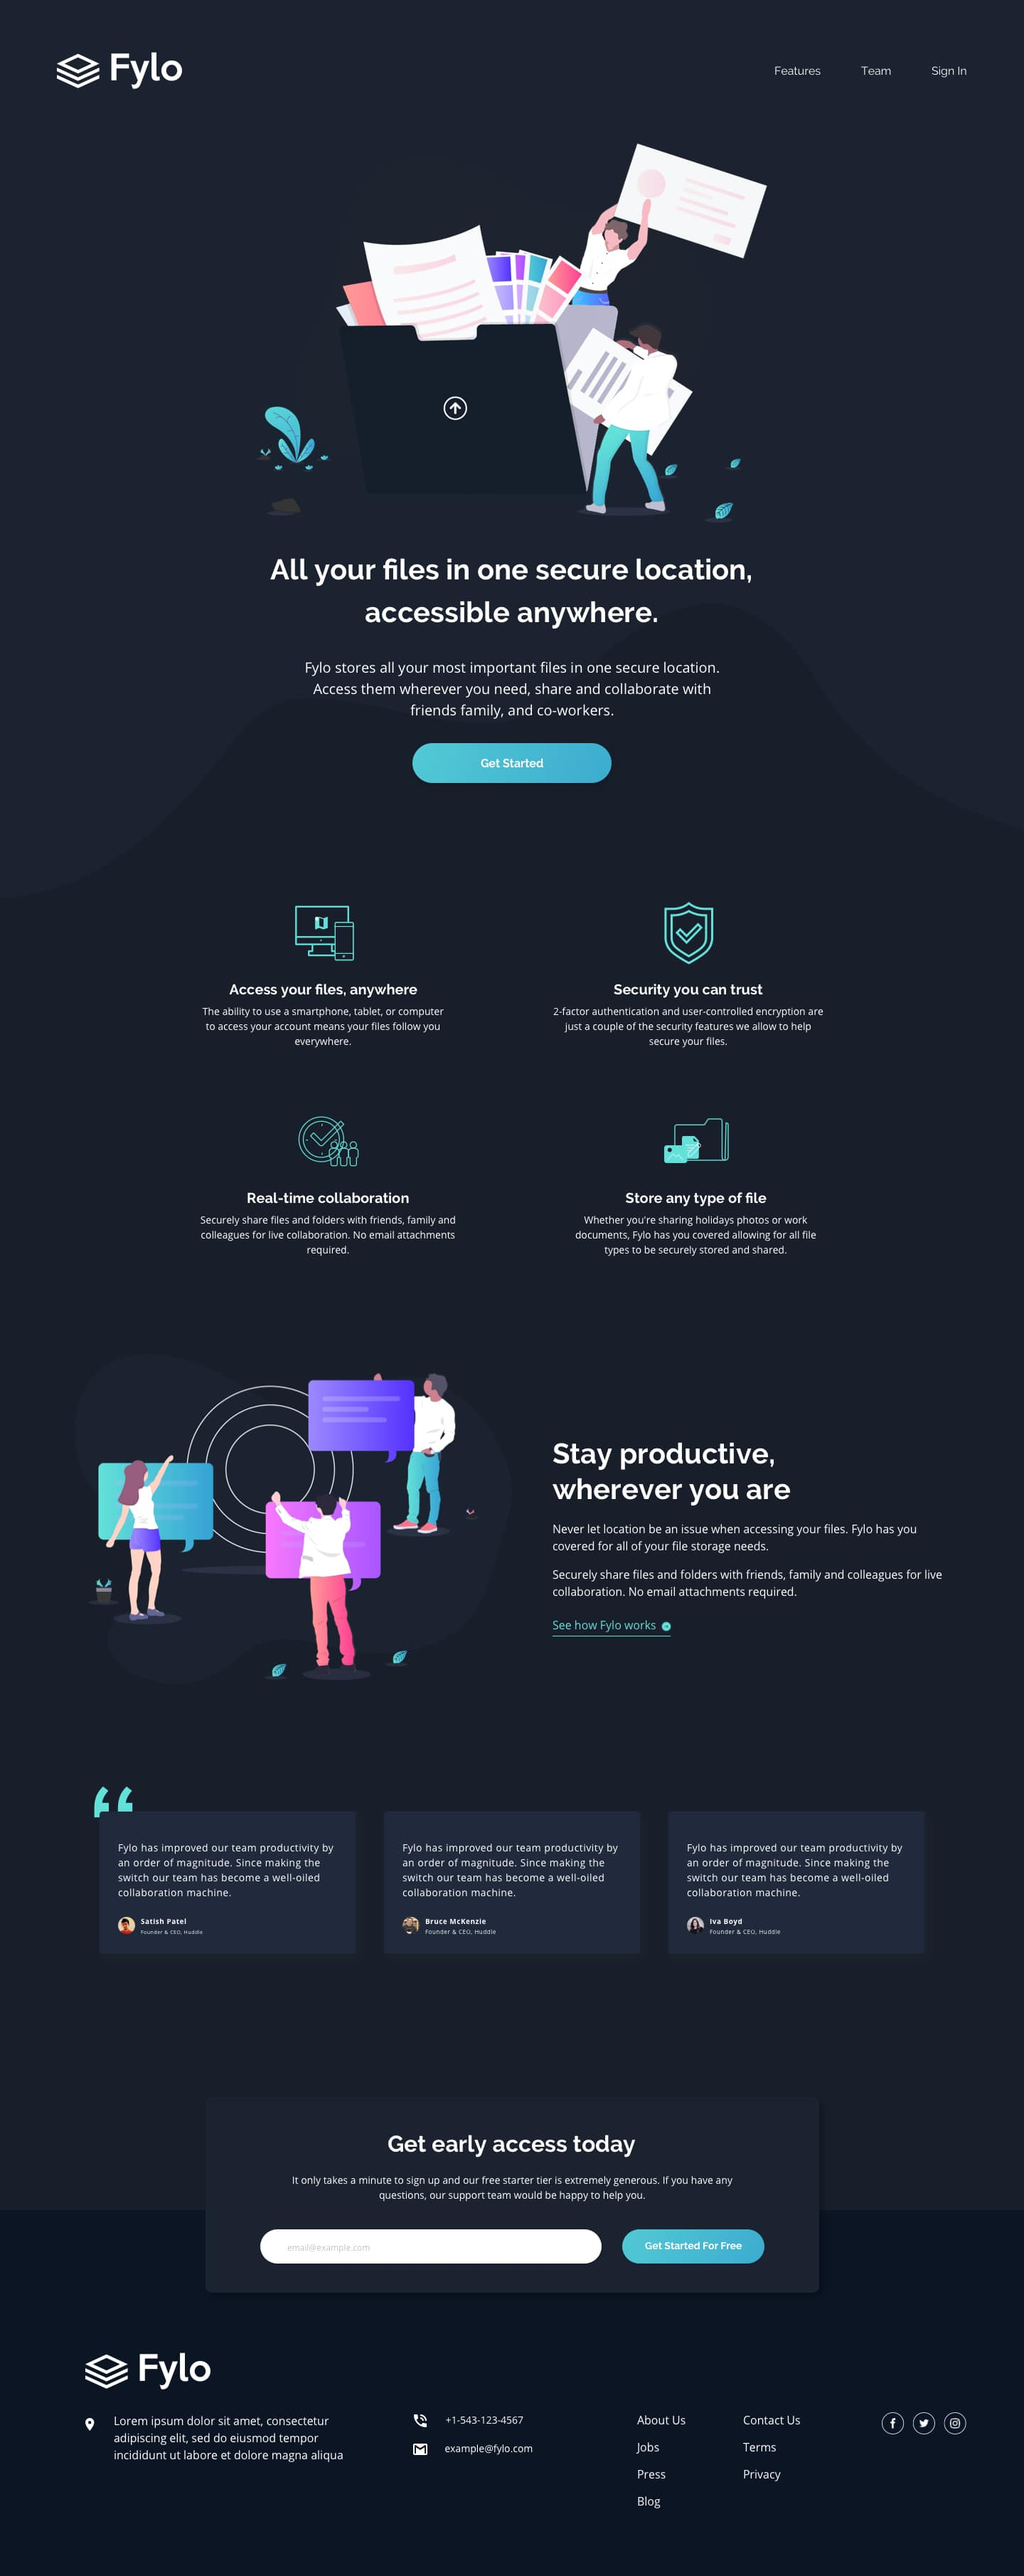
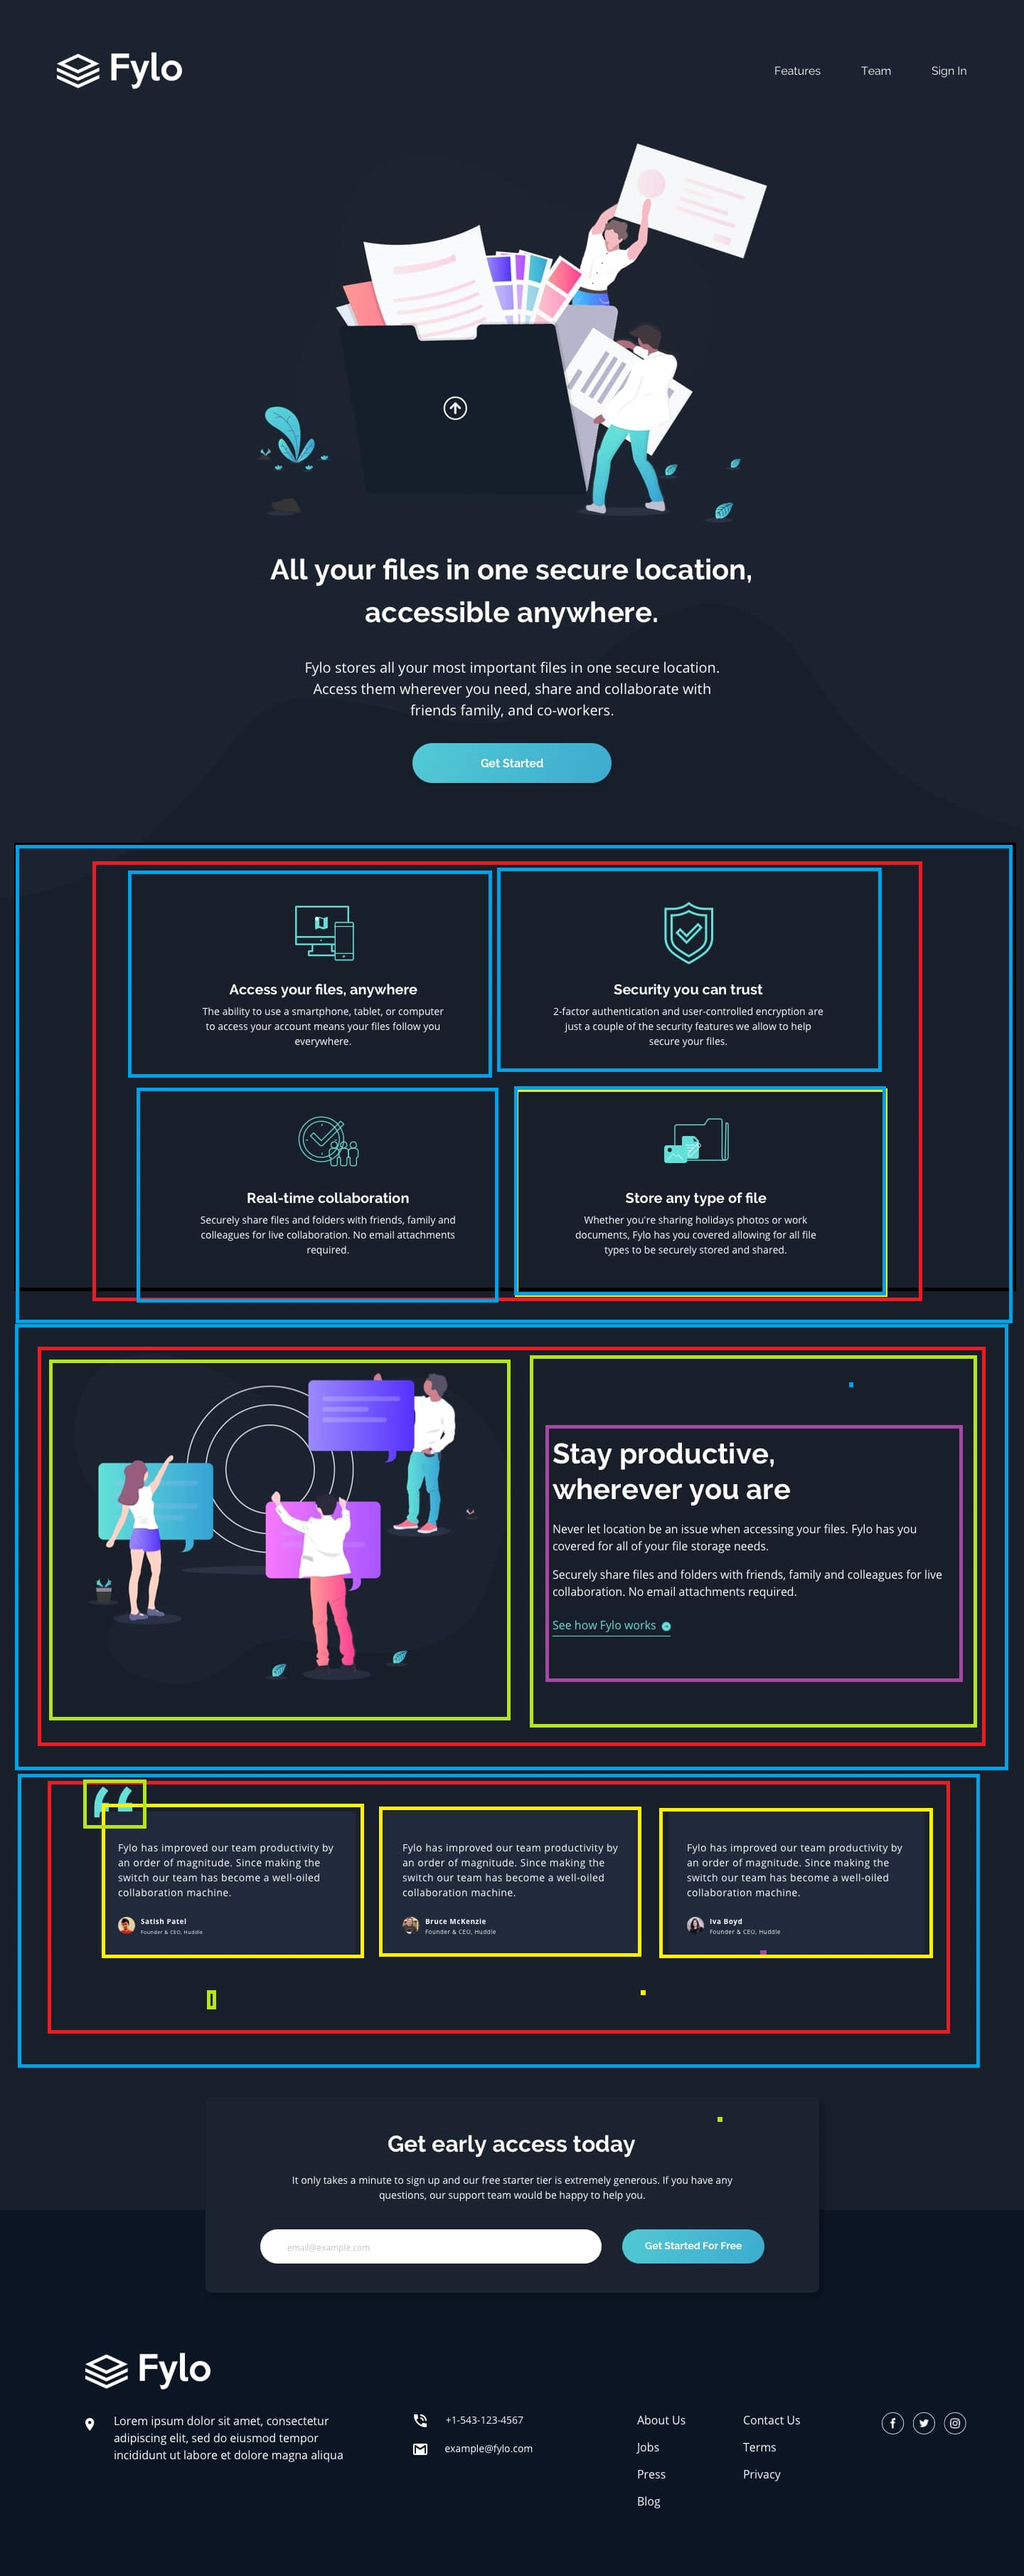
femi rules this bitch fuck abas

Changed region(s): [[0.0, 0.3122, 1.0, 0.8118]]

diff --git a/index.html b/index.html
@@ -140,6 +140,51 @@
       </div>
     </div>
   </section>
+
+  <section class="section-comment">
+    <div class="div-center">
+      <!-- quote -->
+      <img src="./images/bg-quotes.png" alt="">
+      <!-- box 1 -->
+      <div class="div-box">
+        <p>Fylo has improved our team productivity by an order of magnitude. Sinc making the switch our team has become a well-oiled collaboration machine.</p>
+        <div class="div-mini-profile">
+          <div class="div-profile-image">
+            <img src="./images/profile-1.jpg" alt="">
+          </div>
+          <div class="div-profile-cotent">
+            <h4>Satish Patel</h4>
+            <p>Founder & CEO Huddle</p>
+          </div>
+        </div>
+      </div>
+      <!-- box 2 -->
+      <div class="div-box">
+        <p>Fylo has improved our team productivity by an order of magnitude. Sinc making the switch our team has become a well-oiled collaboration machine.</p>
+        <div class="div-mini-profile">
+          <div class="div-profile-image">
+            <img src="./images/profile-2.jpg" alt="">
+          </div>
+          <div class="div-profile-cotent">
+            <h4>Bruce McKenzie</h4>
+            <p>Founder & CEO Huddle</p>
+          </div>
+        </div>
+      </div>
+      <!-- box 3 -->
+      <div class="div-box">
+        <p>Fylo has improved our team productivity by an order of magnitude. Sinc making the switch our team has become a well-oiled collaboration machine.</p>
+        <div class="div-mini-profile">
+          <div class="div-profile-image">
+            <img src="./images/profile-3.jpg" alt="">
+          </div>
+          <div class="div-profile-cotent">
+            <h4>Iva Boyd</h4>
+            <p>Founder & CEO Huddle</p>
+          </div>
+        </div>
+      </div>
+  </section>
   <!-- we are starting the project now -->
   <!-- <footer>
     <p class="attribution">
